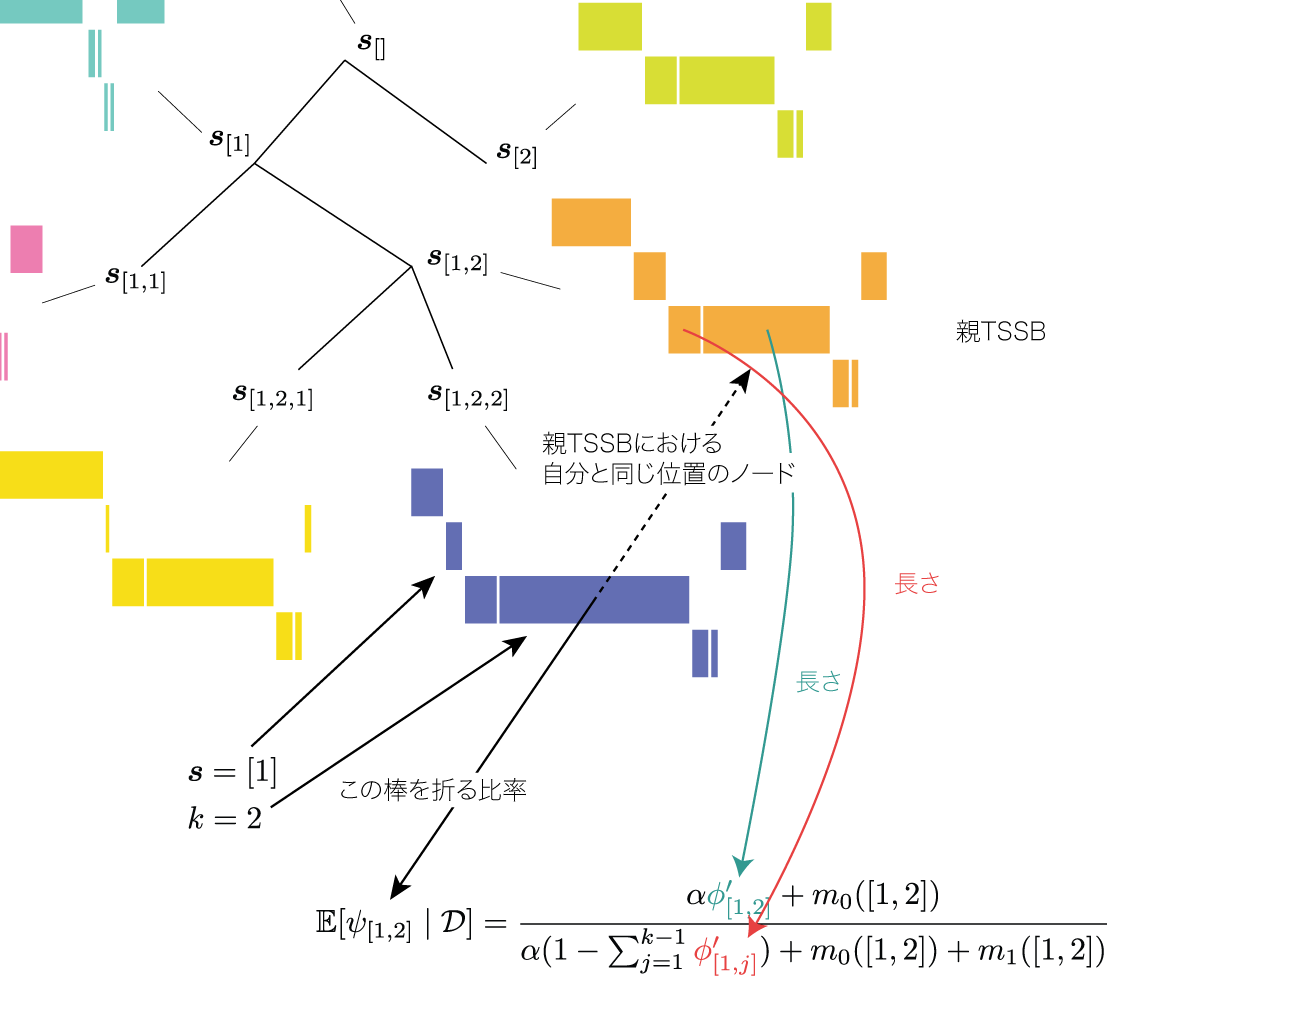
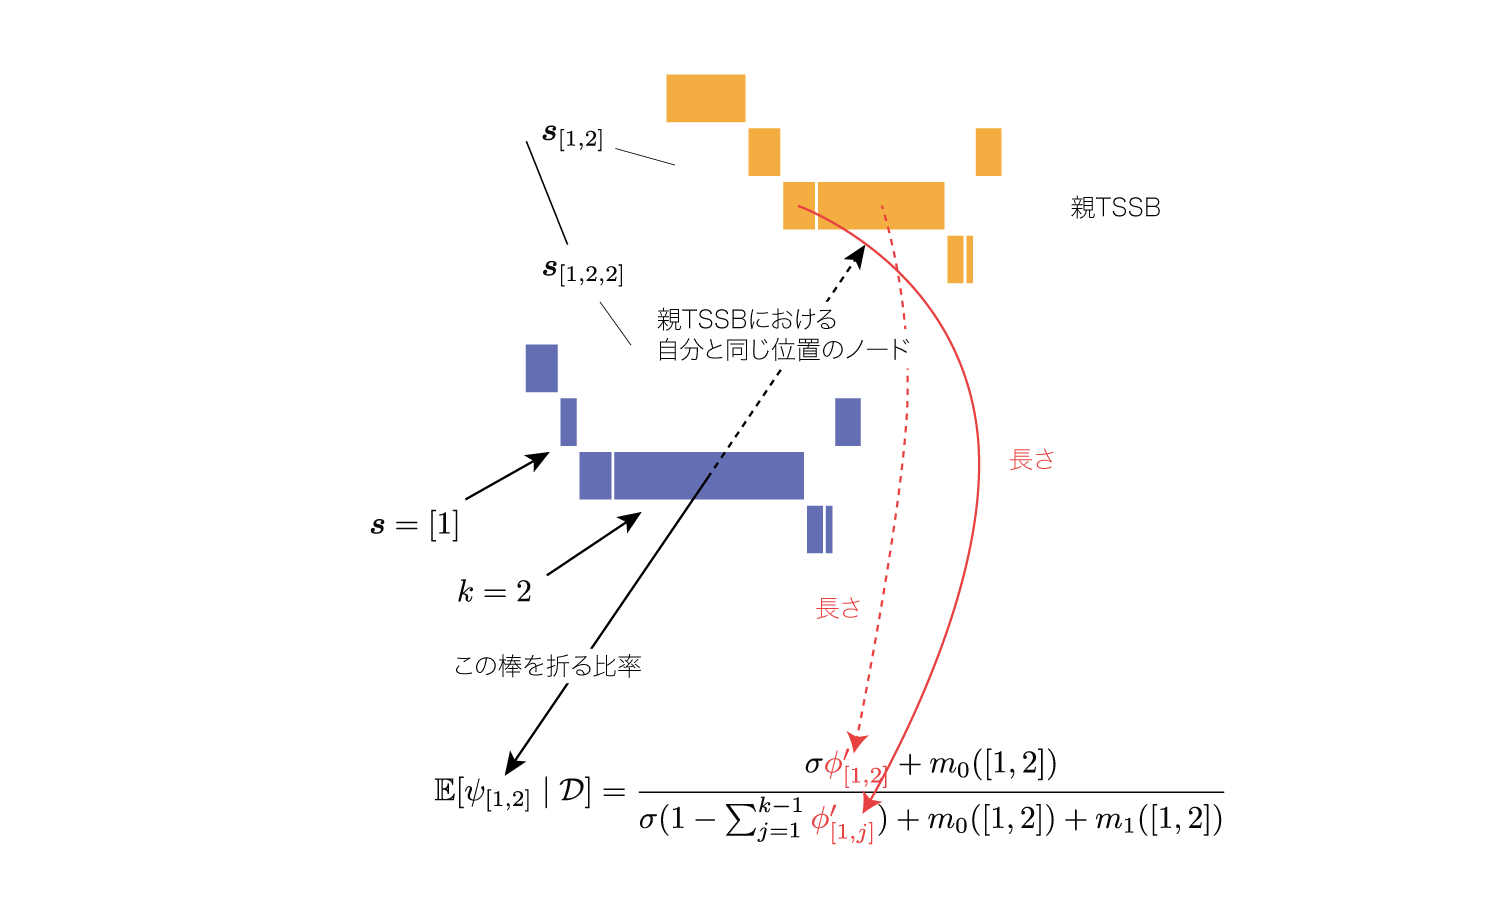
j

diff --git a/_posts/2017-03-07-無限木構造隠れMarkovモデルによる階層的品詞の教師なし学習.md b/_posts/2017-03-07-無限木構造隠れMarkovモデルによる階層的品詞の教師なし学習.md
@@ -25,6 +25,8 @@ excerpt_separator: <!--more-->
 
 最後まで諦めない強い精神力が必要です。
 
+またこの論文は密度が濃いため、この記事では要点だけ解説します。
+
 ## 参考文献
 
 実装にあたって読まなければならない論文です。
@@ -86,11 +88,11 @@ $$
 
 このようにして得られる無限次元の多項分布を$\pi=\\{\pi_1, \pi_2, \ldots\\}$で表します。
 
-この$\pi$はハイパーパラメータ$\alpha$を調整することでどのような形にもなりますが、データから$\gamma_k$や$\pi_k$の事後分布を求めることができます。
+この$\pi$はハイパーパラメータ$\alpha$を調整することでどのような形にもなりますが、データから$\gamma_k$や$\pi_k$の事後確率を求めることができます。
 
 いま、$\pi$からの実現値${\cal D} = \\{x_1, x_2, \ldots\\}$が与えられたとします。
 
-${\cal D}$のもとでの$\pi$の事後分布$p(\pi \mid \cal D)$は、SBPを構成するそれぞれの確率変数$\gamma_k$の事後分布の積で表現することができ、$\cal D$の中で値が$k$であるものの個数を$n_0(k)$、値が$k$よりも大きいものの個数を$n_1(k)$とすると、$\gamma_k$の事後分布は
+${\cal D}$のもとでの$\pi$の事後確率$p(\pi \mid \cal D)$は、SBPを構成するそれぞれの確率変数$\gamma_k$の事後確率の積で表現することができ、$\cal D$の中で値が$k$であるものの個数を$n_0(k)$、値が$k$よりも大きいものの個数を$n_1(k)$とすると、$\gamma_k$の事後確率は
 
 $$
 	\begin{align}
@@ -404,8 +406,9 @@ $\nu_{\boldsymbol s}$は$0 < \nu_{\boldsymbol s} < 1$を満たす必要がある
 
 実はiTHMM論文では縦横それぞれのSBPにおける棒の長さは横のSBPのみ上の式(10)で$$\phi_{\boldsymbol sk} = \psi_{\boldsymbol sk}\prod_{j=1}^{k-1}(1-\psi_{sj})$$と記号に割り当てられているだけであり、縦のSBPにおける棒の長さがどの記号にも割り当てられていません。
 
-そこでこれ以降の説明のためにも以下のように定義しておきます。
+さらにiTHMM論文では$\alpha$が多重定義されており混乱を招きます。
 
+そこでこれ以降の説明のためにも以下のように定義しておきます。
 
 $$
 	\begin{align}
@@ -416,6 +419,7 @@ $$
 		\pi_{\boldsymbol s} &= \nu_{\boldsymbol s}\phi_{\boldsymbol s}\prod_{\boldsymbol s' \prec \boldsymbol s} \phi_{\boldsymbol s}(1 - \nu_{\boldsymbol s'})\nonumber\\
 		&= \nu_{\boldsymbol s}\prod_{\boldsymbol s' \prec \boldsymbol s}(1 - \nu_{\boldsymbol s'})\cdot \prod_{\boldsymbol s'\preceq \boldsymbol s}\phi_{\boldsymbol s'}\nonumber\\
 		&= \mu_{\boldsymbol s} \cdot \prod_{\boldsymbol s'\preceq \boldsymbol s}\phi_{\boldsymbol s'}\\
+		\boldsymbol \pi^{\boldsymbol s} &\sim {\rm HTSSB}(\sigma, \boldsymbol \pi^{\boldsymbol s'})
 	\end{align}\
 $$
 
@@ -427,15 +431,15 @@ $$
 	\begin{align}
 		\double E[\nu_{\boldsymbol s} \mid {\cal D}] &= \frac
 		{
-			\alpha\mu'_{\boldsymbol s}+n_0(\boldsymbol s)
+			\sigma\mu'_{\boldsymbol s}+n_0(\boldsymbol s)
 		}{
-			\alpha(1-\sum_{\boldsymbol u \prec \boldsymbol s}\mu'_{\boldsymbol u})+n_0(\boldsymbol s)+n_1(\boldsymbol s)
+			\sigma(1-\sum_{\boldsymbol u \prec \boldsymbol s}\mu'_{\boldsymbol u})+n_0(\boldsymbol s)+n_1(\boldsymbol s)
 		}\\
 		\double E[\psi_{\boldsymbol sk} \mid {\cal D}] &= \frac
 		{
-			\alpha\phi'_{\boldsymbol sk}+m_0(\boldsymbol sk)
+			\sigma\phi'_{\boldsymbol sk}+m_0(\boldsymbol sk)
 		}{
-			\alpha(1-\sum_{j=1}^{k-1}\phi'_{\boldsymbol sj})+m_0(\boldsymbol sk)+m_1(\boldsymbol sk)
+			\sigma(1-\sum_{j=1}^{k-1}\phi'_{\boldsymbol sj})+m_0(\boldsymbol sk)+m_1(\boldsymbol sk)
 		}\\
 	\end{align}\
 $$
@@ -449,4 +453,228 @@ $$
 ![image](/images/post/2017-03-07/ithmm_htssb_7.png)
 
 さらに$$\mu'_{\boldsymbol s}$$や$$\phi'_{\boldsymbol sk}$$自体も親のTSSBから生成されているため、ルートノードの遷移確率TSSBに到達するまで再帰処理を行ない計算する必要があります。
+
+## iTHMMとHCDP
+
+階層ディリクレ過程といえば、その実現例としてよく使われる中華料理店過程やPitman-Yor過程があります。
+
+たとえば基底分布$G_0$からディリクレ過程によって分布$G$が生成され、k番目の観測値$\theta_k$が$G(\theta)$から生成される場合を考えます。
+
+$$
+	\begin{align}
+		G &\sim {\rm DP}(\alpha, G_0)\\
+		\theta_k &\sim G(\theta)
+	\end{align}\
+$$
+
+この$\theta_k$を中華料理店過程でクラスタリングしている場合に、1番目から$n-1$番目までのデータを観測しクラスタリングし終わったとします。
+
+このとき、$n$番目の観測値$\theta_{n}$は以下の分布から生成されます。
+
+$$
+	\begin{align}
+		p(\theta_n \mid \theta_1,\ldots,\theta_{n-1}) = \frac{\alpha}{\alpha + n - 1}G_0(\theta)+\frac{n-1}{\alpha+n-1}\left(\frac{1}{n-1}\sum_{k=1}^{n-1}\delta_{\theta_k}\right)
+	\end{align}\
+$$
+
+$$\left(\frac{1}{n-1}\sum_{k=1}^{n-1}\delta_{\theta_k}\right)$$は今まで観測したデータからなる経験分布（この場合は多項分布）を表しています。
+
+この式(25)が意味することは、データ$\theta_1,\ldots,\theta_{n-1}$を観測した後では、$\theta_n$は$\frac{\alpha}{\alpha + n - 1}$の比で$G_0(\theta)$から生成され、$\frac{n-1}{\alpha+n-1}$の比で経験分布から生成されます。
+
+$\theta_n$が経験分布から生成された場合は客を経験分布に追加して分布を更新しますが、$G_0(\theta)$から生成された場合、経験分布に追加するとともに代理客を$G_0(\theta)$に追加することで$G_0(\theta)$も更新します。
+
+このように客を用いた階層ディリクレ過程のクラスタリングでは「代理客」を適切に追加しなければなりません。
+
+iTHMMの話に戻りますが、iTHMMの遷移確率を表すTSSBは縦と横のSBPからなりますが、それぞれのSBPが親のTSSBから影響を受けている階層ディリクレ過程になっています。
+
+$$
+	\begin{align}
+		\boldsymbol \pi^{\boldsymbol s} \sim {\rm HTSSB}(\sigma, \boldsymbol \pi^{\boldsymbol s'})
+	\end{align}\
+$$
+
+階層ディリクレ過程は中華料理店過程として表すこともできるため、式(25)はHTSSBでも成り立たなければなりません。
+
+したがって、子のTSSBから新しいデータが生成された時、代理客を親のTSSBに追加する必要がありますが、これはどのようにして行えばよいでしょうか？
+
+ここでHTSSBを中華料理店過程で表した時に、何が何から生成されているかを確認しておきましょう。
+
+![image](/images/post/2017-03-07/ithmm_crp_1.png)
+
+CRPで考えた場合、$\boldsymbol \pi^{\boldsymbol s}$を構成するSBPの棒を折る比率が親のTSSBから生成されていると考えます。
+
+図では垂直方向のSBPのみ示していますが水平方向も同様です。
+
+TSSBにおいて$\nu_{\boldsymbol s}$が意味するものは、「その位置で止まる確率」です。
+
+したがって、$\nu_{\boldsymbol s}$から生成される観測値$\theta_k$は「通過」か「停止」のどちらかを表します。
+
+（正確には確率$\nu_{\boldsymbol s}$で「停止」し、確率$1-\nu_{\boldsymbol s}$で「通過」します）
+
+ここでノード$\boldsymbol s$を通過した客数を$n_1(\boldsymbol s)$、停止した客数を$n_0(\boldsymbol s)$、総和を$n(\boldsymbol s)=n_0(\boldsymbol s) + n_1(\boldsymbol s)$とすると、式(25)をHTSSBに当てはめたものは以下のようになります。
+
+$$
+	\begin{align}
+		p(\theta_n=停止 \mid \theta_1,\ldots,\theta_{n-1}) &= \frac{\sigma}{\sigma + n(\boldsymbol s)}\nu'_{\boldsymbol s}+\frac{n(\boldsymbol s)}{\sigma+n(\boldsymbol s)}\left(\frac{n_0(\boldsymbol s)}{n(\boldsymbol s)}\right)\\
+		p(\theta_n=通過 \mid \theta_1,\ldots,\theta_{n-1}) &= \frac{\sigma}{\sigma + n(\boldsymbol s)}(1-\nu'_{\boldsymbol s})+\frac{n(\boldsymbol s)}{\sigma+n(\boldsymbol s)}\left(\frac{n_1(\boldsymbol s)}{n(\boldsymbol s)}\right)
+	\end{align}\
+$$
+
+$\theta_k$は「停止」か「通過」の2つのクラスタのどちらかに割り当てられます。
+
+![image](/images/post/2017-03-07/ithmm_crp_2.png)
+
+CRP的に描くと上の図のようになり、「通過」か「停止」のテーブルが生成され、客はいずれかのテーブルに着席します。
+
+$n_1(\boldsymbol s)$はテーブル「通過」に座っている総客数、$n_0(\boldsymbol s)$はテーブル「停止」に座っている総客数を表しています。
+
+しかし今重要なのは、「停止」や「通過」の判定の際、どのくらいの比で親の$\nu'_{\boldsymbol s}$が使われたかということです。
+
+式(28)と式(29)より、子のTSSBで客が$\boldsymbol s$に止まる時、$\frac{\sigma}{\sigma + n(\boldsymbol s)}$の比で親TSSBの$\nu_{\boldsymbol s}$を用いて停止判定を行い、$\frac{n(\boldsymbol s)}{\sigma+n(\boldsymbol s)}$の比で自分のもつ経験分布（つまり$\nu_{\boldsymbol s}$）を用いて停止判定を行っていることがわかります。。
+
+したがって以下のベルヌーイ試行を行ない、後者が出た場合親のTSSBのノード$\boldsymbol s$に客を追加します。
+
+$$
+	\begin{align}
+		\left[\frac{n(\boldsymbol s)}{n(\boldsymbol s)+\sigma}, \frac{\sigma}{n(\boldsymbol s) + \sigma}\right]
+	\end{align}\
+$$
+
+ところが、この式に対応するiTHMM論文の式(30)は以下のようになっています。
+
+$$
+	\begin{align}
+		\left[\frac{n(\boldsymbol s)}{n(\boldsymbol s)+\sigma}, \frac{\sigma}{n(\boldsymbol s) + \sigma}\nu'_{\boldsymbol s}\right]
+	\end{align}\
+$$
+
+一体どちらが正しいのか私は自信を持てませんが、iTHMM論文の方は$\frac{n(\boldsymbol s)}{n(\boldsymbol s)+\sigma}$が比率を表しているのに対し$\frac{\sigma}{n(\boldsymbol s) + \sigma}\nu'_{\boldsymbol s}$が確率を表しているため不自然な感じがします。
+
+念のため私の実装では式(30)と式(31)両方に対応させています。
+
+上のベルヌーイ試行で後者が出た場合、垂直なCDPの例だけ載せますが、以下のように客を追加します。
+
+![image](/images/post/2017-03-07/ithmm_crp_3.png)
+
+ただし、客を削除する際に代理客を適切に削除しなければならないため、実際はベルヌーイ試行ではなく専用のCRPを作ります。
+
+親から生成されたと判定された場合にテーブルを作成し客をそこに追加しますが、子から生成された場合はすでに存在するテーブルの客数に比例した確率でテーブルを選択肢そこに客を追加します。
+
+このCRPは以下のようにテーブル番号がない特殊なものになっており、これを用いるとテーブル数+1の多項分布を考えることができます。
+
+![image](/images/post/2017-03-07/ithmm_crp_4.png)
+
+この多項分布からサンプリングし、新しいテーブルだった場合に親TSSBに客を追加します。
+
+逆にノード$\boldsymbol s$から客が削除された時、このCRPにおいては客数に比例した確率でテーブルを選択し、そこから客を１人削除します。
+
+テーブルが空になったら親のTSSBのノード$\boldsymbol s$から客を削除します。
+
+## 出力確率
+
+HMMの出力確率$p(w_t \mid s_t)$ですが、木構造の階層を考慮し、親の品詞の出力確率が子の品詞の出力確率に影響を与えていると考えます。
+
+![image](/images/post/2017-03-07/ithmm_implementation_2.png)
+
+そこでPitman-Yor過程を用いて親の出力確率から生成します。
+
+$$
+	\begin{align}
+		p(\cdot \mid \boldsymbol s) \sim {\rm PY}(p(\cdot \mid \boldsymbol s'), d_{\mid \boldsymbol s \mid}, \theta_{\mid \boldsymbol s \mid})
+	\end{align}\
+$$
+
+ハイパーパラメータの$d_{\mid \boldsymbol s \mid}$と$\theta_{\mid \boldsymbol s \mid}$は深さごとに共通のものを使用します。
+
+ルートノードには親がないため一様分布$H$から$p(\cdot \mid \boldsymbol s_{[]})$を生成します。
+
+## 無限木構造について
+
+iTHMMには「無限木構造」「TSSB」「HTSSB」「HPYLM」の4つの要素があります。
+
+![image](/images/post/2017-03-07/ithmm_implementation_1.png)
+
+この無限木構造ですが、これは上でTSSBを用いて作ると書きましたが、
+
+![image](/images/post/2017-03-07/ithmm_htssb_1.png)
+
+実際は$\boldsymbol \pi^{\boldsymbol s}$へのポインタを持っていればどのように実装しても構いません。
+
+というのも、iTHMMではこの図にあるような$p(s_j)$を実際に用いることはなく、$p(s_j \mid s_i)$だけ考えています。
+
+## 深さの固定
+
+iTHMMは本来無限の深さまでノードが存在しますが、論文によると深さを固定したほうが良い結果が得られるようです。
+
+これは$\boldsymbol s$が一定の深さ以上のときに$\nu_{\boldsymbol s}$の値を常に1にすれば実現できます。
+
+## 実装する際の注意点
+
+iTHMMでは**親ノード**、**親TSSB**、**親ノードが持つTSSBの自分と同じ位置のノード**を頻繁に扱います。
+
+さらに再帰処理が非常に多いため、どのノードに対して何を計算すべきかを正しく把握しておかないと途中で実装を諦めてしまうことになります。
+
+ここでは私が実装していて気づいた注意点やデバッグすべき項目を紹介します。
+
+### 客
+
+この記事でも頻繁に「客」という言葉を使いましたが、iTHMMの学習における「客」とは、品詞$\boldsymbol s_i$に続く品詞$\boldsymbol s_j$のカウントのことを指しています。
+
+たとえば$\boldsymbol s_i=[1]$に続いて品詞$\boldsymbol s_j=[1,2]$を観測したとします。
+
+このとき客をTSSB$\boldsymbol \pi^{[1]}$のノード$\boldsymbol s_{[1,2]}$に追加します。
+
+![image](/images/post/2017-03-07/ithmm_implementation_3.png)
+
+縦横それぞれのCDPに追加すると以下のようになります。
+
+![image](/images/post/2017-03-07/ithmm_implementation_4.png)
+
+この時、この客が親のTSSBから生成されていると判定された時は親のTSSBのノード$\boldsymbol s_{[1,2]}$に代理客を追加します。
+
+![image](/images/post/2017-03-07/ithmm_implementation_5.png)
+
+ただし、親から生成されたかどうかの判定は縦と横のCDPそれぞれ独立して行ないます。
+
+縦だけ親から生成されたと判定された場合の代理客の配置は以下のようになります。
+
+![image](/images/post/2017-03-07/ithmm_implementation_6.png)
+
+横だけ親から生成されたと判定された場合の代理客の配置は以下のようになります。
+
+![image](/images/post/2017-03-07/ithmm_implementation_7.png)
+
+縦も横も親から生成されたと判定された場合の代理客の配置は以下のようになります。
+
+![image](/images/post/2017-03-07/ithmm_implementation_8.png)
+
+これを親TSSBが無くなるまで上に再帰的に処理を行っていきます。
+
+つまり代理客に対しても、それがさらに親から生成されたかどうかを判定します。
+
+### HPYLM
+
+Pitman-Yor過程ではパラメータ$\theta_{\mid \boldsymbol s \mid}$が集中度を表しており、これを$\infty$にすると生成された分布は基底分布に一致します。
+
+そこでわざと$\theta_{\mid \boldsymbol s \mid}$を巨大な値にし、全てのノード$\boldsymbol s$の出力分布が一様分布に近くなることを確認しましょう。
+
+### HTSSB
+
+式(21)よりHTSSBの集中度は$\sigma$です。
+
+そこでわざと$\sigma$を巨大な値にし、全てのノード$\boldsymbol s$のもつ$\boldsymbol \pi^{\boldsymbol s}$が、$\boldsymbol \pi^{[]}$と同一の形（構造が同じなのは当然ですが、さらにそれぞれの棒の長さも同じ）になることを確認しましょう。
+
+### 客の削除
+
+一旦訓練データのすべての客を追加てからすべての客を削除したときに、代理客も含めてモデルから客が全員いなくなるかを確認しましょう。
+
+## 実験
+
+不思議の国のアリスの原作を用いて実験を行いました。
+
+iTHMMの実装および実験のコードはGitHubにあります。
+
+[https://github.com/musyoku/unsupervised-pos-tagging/tree/master/infinite-tree-hmm](https://github.com/musyoku/unsupervised-pos-tagging/tree/master/infinite-tree-hmm)
+
+今回はTreeTaggerを用いて正確に形態素解析を行った以外には前処理をしていません。
 

diff --git a/_posts/2016-12-14-ベイズ階層言語モデルによる教師なし形態素解析.md b/_posts/2016-12-14-ベイズ階層言語モデルによる教師なし形態素解析.md
@@ -229,8 +229,8 @@ $$
 	\begin{align}
 		p(\cdot) &\sim PY(\frac{1}{V}, d_0, \theta_0)\nonumber\\
 		p(\cdot \mid the) &\sim PY(p(\cdot), d_1, \theta_1)\nonumber\\
-		p(\cdot \mid the\ quick) &\sim PY(p(\cdot \mid the), d_2, \theta_2)\nonumber\\
-		p(\cdot \mid the\ quick\ brown) &\sim PY(p(\cdot \mid the\ quick), d_3, \theta_3)\nonumber\\
+		p(\cdot \mid the\ quick) &\sim PY(p(\cdot \mid quick), d_2, \theta_2)\nonumber\\
+		p(\cdot \mid the\ quick\ brown) &\sim PY(p(\cdot \mid quick\ brown), d_3, \theta_3)\nonumber\\
 	\end{align}\
 $$
 
